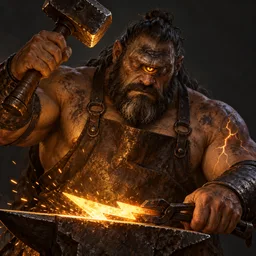
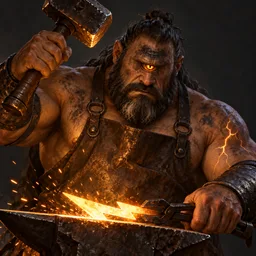
Portraits: 59 of 119 (Japanese, Slavic and other batches); regenerated Cyclops Brontes; README roster sheet

diff --git a/README.md b/README.md
@@ -8,7 +8,7 @@ An original, browser-based **3v3 turn-based arena game**. Draft three fighters f
 
 It runs entirely in your browser. There is no server, no account and no network needed once loaded. Progress is saved on your device, and the whole game also comes as a single `.html` file you can open from disk.
 
-> Status: playable, and feature-complete for a first playtest. Art is still being made (36 of 119 portraits so far), and real-player testing has not started. See [`docs/ROADMAP.md`](docs/ROADMAP.md).
+> Status: playable, and feature-complete for a first playtest. Art is still being made (59 of 119 portraits so far), and real-player testing has not started. See [`docs/ROADMAP.md`](docs/ROADMAP.md).
 
 ![A tutorial match: two teams of three, energy, status icons and the ability list](docs/img/shot-match.jpg)
 
